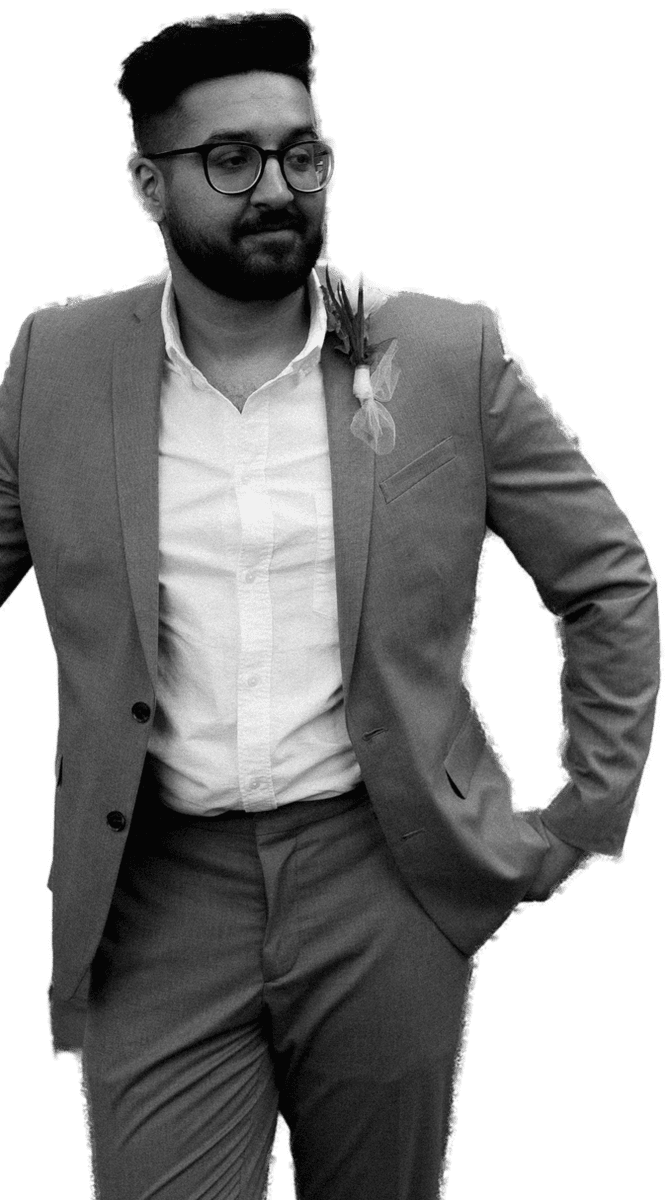
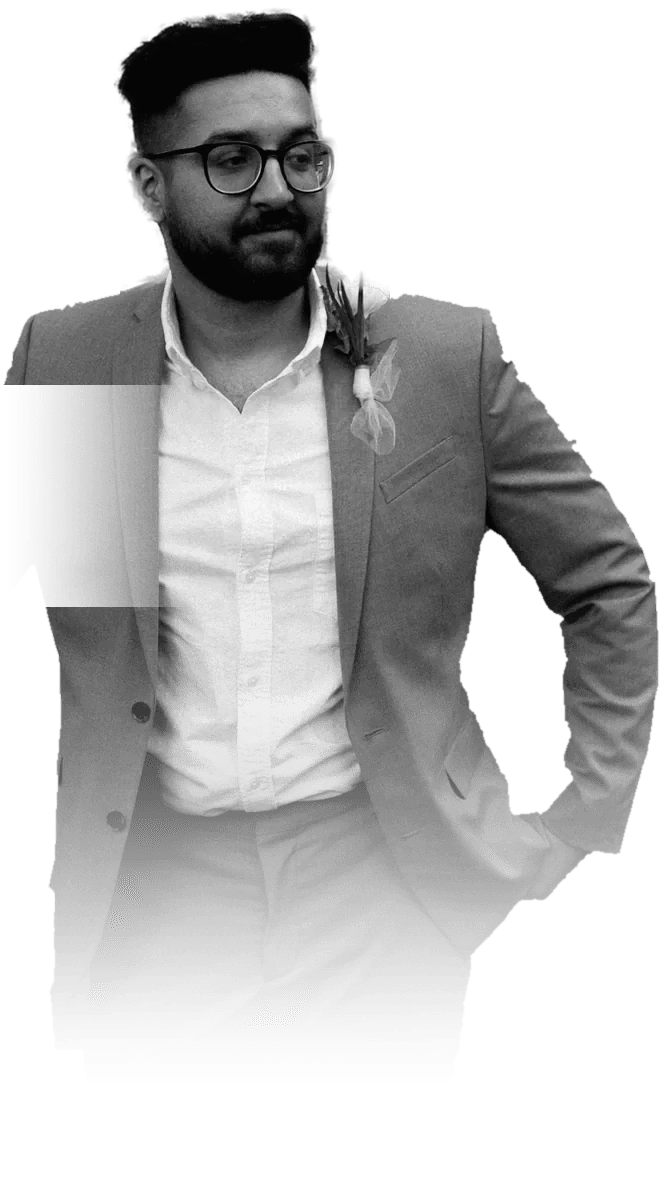
Soften the cutout edges and make the hero type solid.

diff --git a/index.html b/index.html
@@ -121,13 +121,11 @@
   }
   .hero-figure img {
     display: block; height: 100%; width: auto;
-    -webkit-mask-image: linear-gradient(to bottom, #000 80%, transparent 100%);
-    mask-image: linear-gradient(to bottom, #000 80%, transparent 100%);
   }
   .hero-content {
     position: relative; z-index: 2; flex: 1; width: min(100%, 440px);
     display: flex; flex-direction: column; align-items: center;
-    animation: fadeUp 1.2s ease-out;
+    opacity: 1;
   }
   .hero-eyebrow {
     font-size: 12px; font-weight: 500; letter-spacing: 5px;
@@ -135,15 +133,22 @@
   }
   .hero h1 {
     font-family: var(--serif); font-size: clamp(84px, 23vw, 128px);
-    font-weight: 500; color: var(--white); line-height: 0.8;
+    font-weight: 600; color: var(--white); line-height: 0.8;
     margin-top: auto; margin-bottom: 14px; letter-spacing: -1.5px;
-    text-shadow: 0 12px 36px rgba(0,0,0,0.55);
+    opacity: 1;
+    text-shadow: 0 2px 18px rgba(0,0,0,0.72);
   }
   .hero-sub {
     font-family: var(--serif); font-size: clamp(20px, 4.6vw, 28px);
-    font-weight: 300; font-style: italic; color: var(--light); margin-bottom: 22px;
+    font-weight: 400; font-style: italic; color: var(--white); margin-bottom: 22px;
+    opacity: 1;
+    text-shadow: 0 2px 12px rgba(0,0,0,0.8);
   }
-  .hero-buttons { display: flex; gap: 12px; justify-content: center; flex-wrap: wrap; }
+  .hero-buttons { display: flex; gap: 12px; justify-content: center; flex-wrap: wrap; position: relative; z-index: 3; }
+  .hero .btn-primary { background: var(--red); color: var(--white); opacity: 1; }
+  .hero .btn-outline {
+    background: var(--black); color: var(--light); border-color: var(--border); opacity: 1;
+  }
   .btn-primary {
     display: inline-block; padding: 16px 40px; background: var(--red);
     color: var(--white); font-size: 12px; font-weight: 600;
